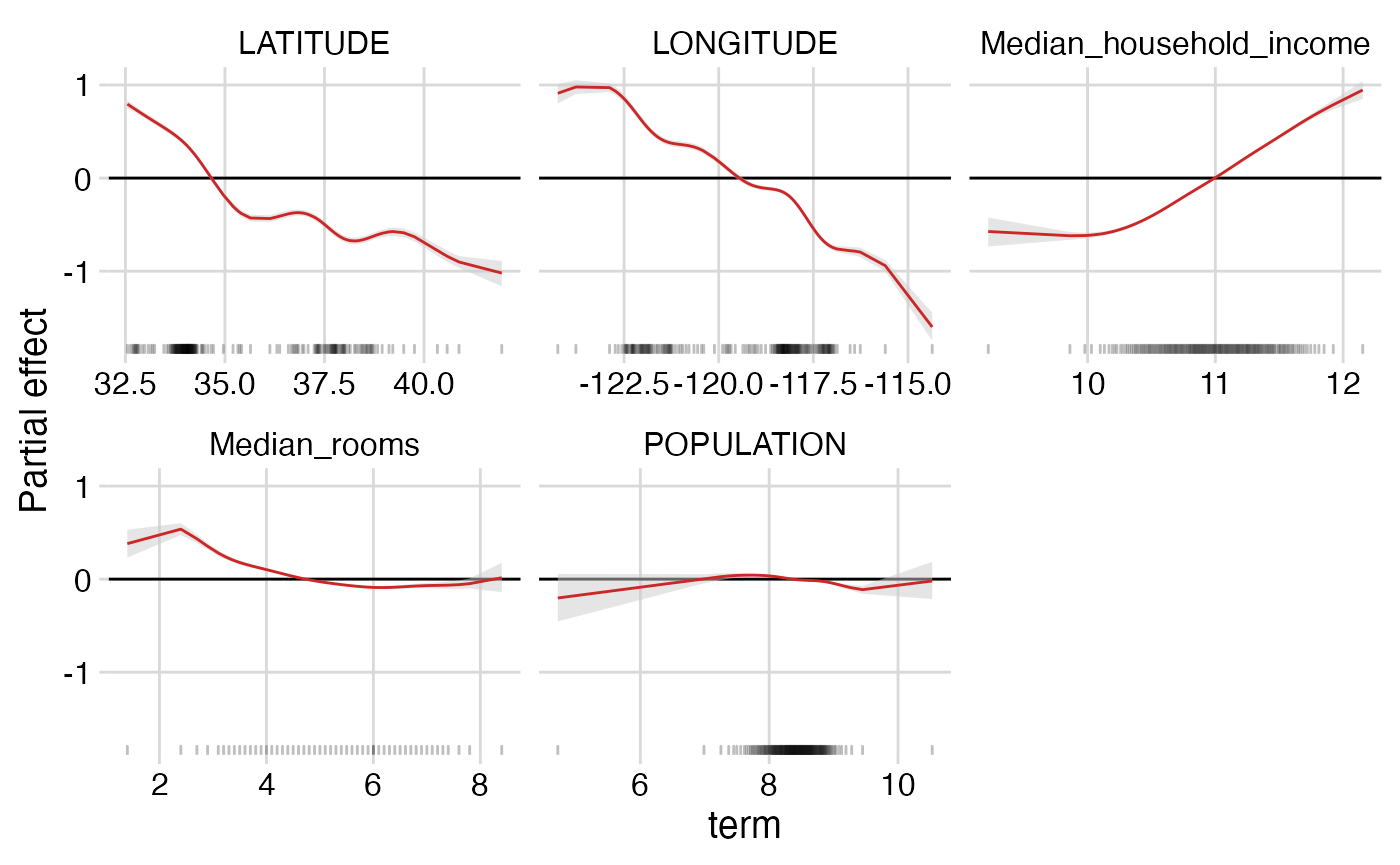
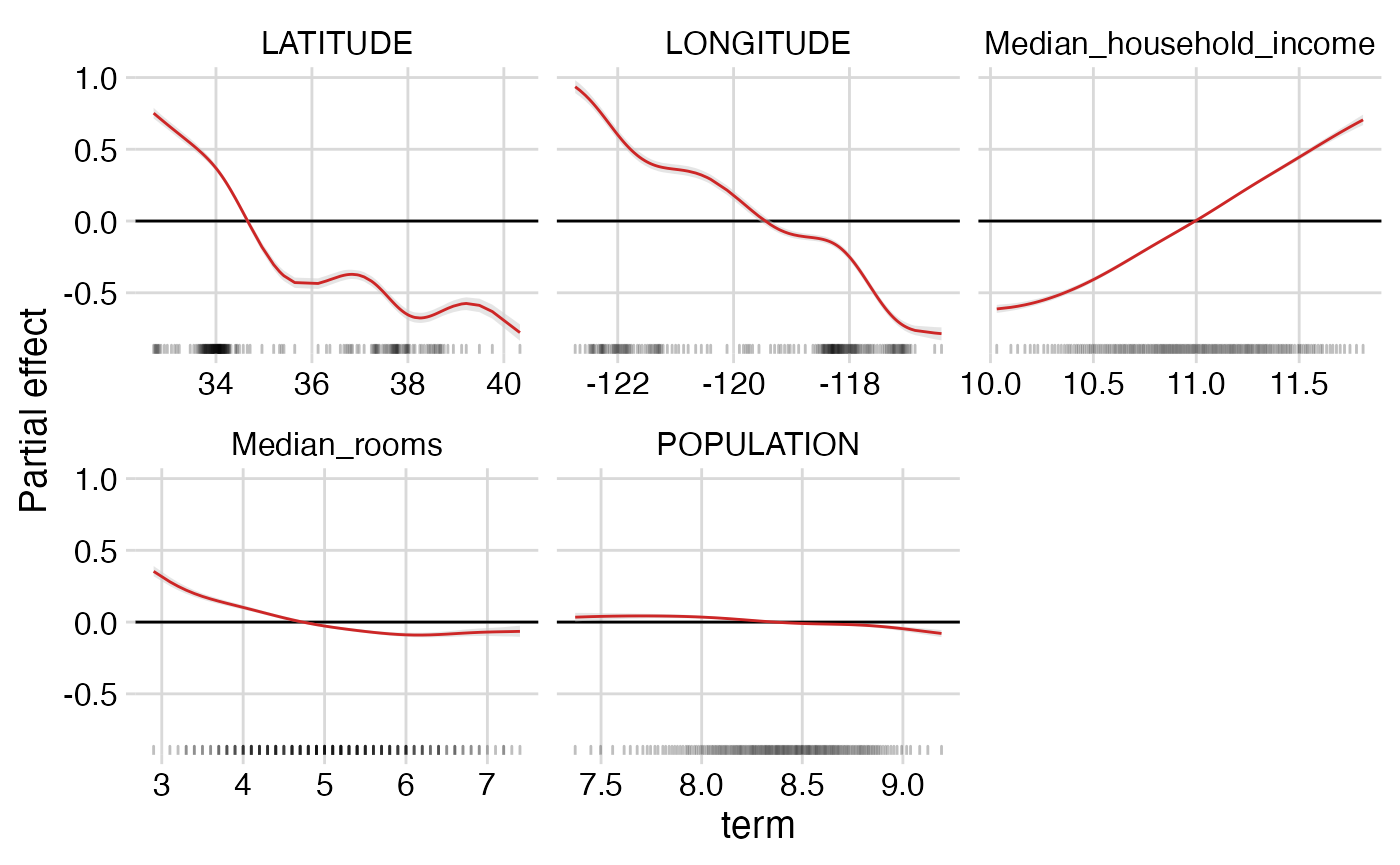
Finish fast computation of summary

diff --git a/docs/articles/california-housing.html b/docs/articles/california-housing.html
@@ -198,25 +198,68 @@ effects of each of the five covariates.</p>
 <span><span class="co">#&gt; Triangle 1 out of 5...</span></span>
 <span><span class="co">#&gt; Triangle 2 out of 5...</span></span>
 <span><span class="co">#&gt; Triangle 3 out of 5...</span></span>
-<span><span class="co">#&gt; Warning in triangle(myx, gamTerm[[triangle_terms[jay]]]): num_quantiles argument</span></span>
-<span><span class="co">#&gt; (100) less than unique values of x (52)</span></span>
 <span><span class="co">#&gt; Triangle 4 out of 5...</span></span>
 <span><span class="co">#&gt; Triangle 5 out of 5...</span></span>
 <span><span class="co">#&gt; 7481 10007481 1000</span></span>
 <span></span>
-<span><span class="fu"><a href="../reference/additive_summary_plot.html">additive_summary_plot</a></span><span class="op">(</span><span class="va">mypossum</span><span class="op">)</span></span></code></pre></div>
+<span><span class="va">mypossum</span><span class="op">$</span><span class="va">gamDf</span> <span class="op"><a href="https://magrittr.tidyverse.org/reference/pipe.html" class="external-link">%&gt;%</a></span> <span class="fu"><a href="https://pillar.r-lib.org/reference/glimpse.html" class="external-link">glimpse</a></span><span class="op">(</span><span class="op">)</span></span>
+<span><span class="co">#&gt; Rows: 1,005</span></span>
+<span><span class="co">#&gt; Columns: 13</span></span>
+<span><span class="co">#&gt; $ term      <span style="color: #949494; font-style: italic;">&lt;chr&gt;</span> "Median_household_income", "Median_household_income", "Media…</span></span>
+<span><span class="co">#&gt; $ x_j       <span style="color: #949494; font-style: italic;">&lt;dbl&gt;</span> 9.222763, 9.861839, 9.978539, 10.030437, 10.099218, 10.13193…</span></span>
+<span><span class="co">#&gt; $ fx_j_mean <span style="color: #949494; font-style: italic;">&lt;dbl&gt;</span> -0.5738048, -0.6194690, -0.6172766, -0.6124813, -0.6013317, …</span></span>
+<span><span class="co">#&gt; $ fx_j_lo   <span style="color: #949494; font-style: italic;">&lt;dbl&gt;</span> -0.7347673, -0.6628347, -0.6483007, -0.6407567, -0.6258461, …</span></span>
+<span><span class="co">#&gt; $ fx_j_hi   <span style="color: #949494; font-style: italic;">&lt;dbl&gt;</span> -0.4243263, -0.5793908, -0.5861247, -0.5838037, -0.5754610, …</span></span>
+<span><span class="co">#&gt; $ fx_j_lo95 <span style="color: #949494; font-style: italic;">&lt;dbl&gt;</span> -0.7347673, -0.6628347, -0.6483007, -0.6407567, -0.6258461, …</span></span>
+<span><span class="co">#&gt; $ fx_j_hi95 <span style="color: #949494; font-style: italic;">&lt;dbl&gt;</span> -0.4243263, -0.5793908, -0.5861247, -0.5838037, -0.5754610, …</span></span>
+<span><span class="co">#&gt; $ fx_j_lo80 <span style="color: #949494; font-style: italic;">&lt;dbl&gt;</span> -0.6785320, -0.6472784, -0.6372029, -0.6306511, -0.6176504, …</span></span>
+<span><span class="co">#&gt; $ fx_j_hi80 <span style="color: #949494; font-style: italic;">&lt;dbl&gt;</span> -0.4732336, -0.5918228, -0.5962463, -0.5932345, -0.5844023, …</span></span>
+<span><span class="co">#&gt; $ fx_j_lo50 <span style="color: #949494; font-style: italic;">&lt;dbl&gt;</span> -0.6276937, -0.6328324, -0.6281034, -0.6227858, -0.6107186, …</span></span>
+<span><span class="co">#&gt; $ fx_j_hi50 <span style="color: #949494; font-style: italic;">&lt;dbl&gt;</span> -0.5152227, -0.6046710, -0.6058601, -0.6024846, -0.5922524, …</span></span>
+<span><span class="co">#&gt; $ meta      <span style="color: #949494; font-style: italic;">&lt;lgl&gt;</span> NA, NA, NA, NA, NA, NA, NA, NA, NA, NA, NA, NA, NA, NA, NA, …</span></span>
+<span><span class="co">#&gt; $ quant     <span style="color: #949494; font-style: italic;">&lt;dbl&gt;</span> 0.000, 0.005, 0.010, 0.015, 0.020, 0.025, 0.030, 0.035, 0.04…</span></span>
+<span><span class="va">mypossum</span><span class="op">$</span><span class="va">triangleDf</span> <span class="op"><a href="https://magrittr.tidyverse.org/reference/pipe.html" class="external-link">%&gt;%</a></span> <span class="fu"><a href="https://pillar.r-lib.org/reference/glimpse.html" class="external-link">glimpse</a></span><span class="op">(</span><span class="op">)</span></span>
+<span><span class="co">#&gt; Rows: 100,500</span></span>
+<span><span class="co">#&gt; Columns: 7</span></span>
+<span><span class="co">#&gt; $ l    <span style="color: #949494; font-style: italic;">&lt;dbl&gt;</span> 0, 0, 0, 0, 0, 0, 0, 0, 0, 0, 0, 0, 0, 0, 0, 0, 0, 0, 0, 0, 0, 0,…</span></span>
+<span><span class="co">#&gt; $ u    <span style="color: #949494; font-style: italic;">&lt;dbl&gt;</span> 0.005, 0.010, 0.015, 0.020, 0.025, 0.030, 0.035, 0.040, 0.045, 0.…</span></span>
+<span><span class="co">#&gt; $ x_l  <span style="color: #949494; font-style: italic;">&lt;dbl&gt;</span> 9.222763, 9.222763, 9.222763, 9.222763, 9.222763, 9.222763, 9.222…</span></span>
+<span><span class="co">#&gt; $ x_u  <span style="color: #949494; font-style: italic;">&lt;dbl&gt;</span> 9.861839, 9.978539, 10.030437, 10.099218, 10.131937, 10.167297, 1…</span></span>
+<span><span class="co">#&gt; $ diff <span style="color: #949494; font-style: italic;">&lt;dbl&gt;</span> -0.045664281, -0.043471821, -0.038676564, -0.027526963, -0.020063…</span></span>
+<span><span class="co">#&gt; $ prob <span style="color: #949494; font-style: italic;">&lt;dbl&gt;</span> 0.250, 0.281, 0.317, 0.368, 0.400, 0.443, 0.477, 0.505, 0.530, 0.…</span></span>
+<span><span class="co">#&gt; $ term <span style="color: #949494; font-style: italic;">&lt;chr&gt;</span> "Median_household_income", "Median_household_income", "Median_hou…</span></span>
+<span></span>
+<span><span class="fu"><a href="../reference/additive_summary_plot.html">additive_summary_plot</a></span><span class="op">(</span><span class="va">mypossum</span>, windsor <span class="op">=</span> <span class="fl">0.02</span><span class="op">)</span></span>
+<span><span class="co">#&gt; Rows: 975</span></span>
+<span><span class="co">#&gt; Columns: 13</span></span>
+<span><span class="co">#&gt; $ term      <span style="color: #949494; font-style: italic;">&lt;chr&gt;</span> "Median_household_income", "Median_household_income", "Media…</span></span>
+<span><span class="co">#&gt; $ x_j       <span style="color: #949494; font-style: italic;">&lt;dbl&gt;</span> 10.03044, 10.09922, 10.13194, 10.16730, 10.19329, 10.21292, …</span></span>
+<span><span class="co">#&gt; $ fx_j_mean <span style="color: #949494; font-style: italic;">&lt;dbl&gt;</span> -0.6124813, -0.6013317, -0.5938688, -0.5841302, -0.5758271, …</span></span>
+<span><span class="co">#&gt; $ fx_j_lo   <span style="color: #949494; font-style: italic;">&lt;dbl&gt;</span> -0.6407567, -0.6258461, -0.6173449, -0.6057454, -0.5967424, …</span></span>
+<span><span class="co">#&gt; $ fx_j_hi   <span style="color: #949494; font-style: italic;">&lt;dbl&gt;</span> -0.5838037, -0.5754610, -0.5696479, -0.5606206, -0.5528594, …</span></span>
+<span><span class="co">#&gt; $ fx_j_lo95 <span style="color: #949494; font-style: italic;">&lt;dbl&gt;</span> -0.6407567, -0.6258461, -0.6173449, -0.6057454, -0.5967424, …</span></span>
+<span><span class="co">#&gt; $ fx_j_hi95 <span style="color: #949494; font-style: italic;">&lt;dbl&gt;</span> -0.5838037, -0.5754610, -0.5696479, -0.5606206, -0.5528594, …</span></span>
+<span><span class="co">#&gt; $ fx_j_lo80 <span style="color: #949494; font-style: italic;">&lt;dbl&gt;</span> -0.6306511, -0.6176504, -0.6090946, -0.5982587, -0.5894036, …</span></span>
+<span><span class="co">#&gt; $ fx_j_hi80 <span style="color: #949494; font-style: italic;">&lt;dbl&gt;</span> -0.5932345, -0.5844023, -0.5779235, -0.5691099, -0.5612833, …</span></span>
+<span><span class="co">#&gt; $ fx_j_lo50 <span style="color: #949494; font-style: italic;">&lt;dbl&gt;</span> -0.6227858, -0.6107186, -0.6023412, -0.5920776, -0.5837942, …</span></span>
+<span><span class="co">#&gt; $ fx_j_hi50 <span style="color: #949494; font-style: italic;">&lt;dbl&gt;</span> -0.6024846, -0.5922524, -0.5851661, -0.5760744, -0.5680025, …</span></span>
+<span><span class="co">#&gt; $ meta      <span style="color: #949494; font-style: italic;">&lt;lgl&gt;</span> NA, NA, NA, NA, NA, NA, NA, NA, NA, NA, NA, NA, NA, NA, NA, …</span></span>
+<span><span class="co">#&gt; $ quant     <span style="color: #949494; font-style: italic;">&lt;dbl&gt;</span> 0.015, 0.020, 0.025, 0.030, 0.035, 0.040, 0.045, 0.050, 0.05…</span></span></code></pre></div>
 <p><img src="california-housing_files/figure-html/plot-1.png" width="700"></p>
 <p>Look at triangles:</p>
 <div class="sourceCode" id="cb6"><pre class="downlit sourceCode r">
 <code class="sourceCode R"><span></span>
 <span><span class="fu"><a href="../reference/additive_summary_triangle_plot.html">additive_summary_triangle_plot</a></span><span class="op">(</span><span class="va">mypossum</span><span class="op">)</span></span></code></pre></div>
 <p><img src="california-housing_files/figure-html/unnamed-chunk-2-1.png" width="700"></p>
+<div class="sourceCode" id="cb7"><pre class="downlit sourceCode r">
+<code class="sourceCode R"><span><span class="fu"><a href="../reference/additive_summary_triangle_plot.html">additive_summary_triangle_plot</a></span><span class="op">(</span><span class="va">mypossum</span>, windsor<span class="op">=</span><span class="fl">0.02</span><span class="op">)</span></span></code></pre></div>
+<p><img src="california-housing_files/figure-html/unnamed-chunk-2-2.png" width="700"></p>
 </div>
 <div class="section level2">
 <h2 id="summary-diagnostics">Summary diagnostics<a class="anchor" aria-label="anchor" href="#summary-diagnostics"></a>
 </h2>
 <p>Summary R-sq, i.e., variance explained by summary.</p>
-<div class="sourceCode" id="cb7"><pre class="downlit sourceCode r">
+<div class="sourceCode" id="cb8"><pre class="downlit sourceCode r">
 <code class="sourceCode R"><span><span class="fu"><a href="https://rdrr.io/r/graphics/hist.html" class="external-link">hist</a></span><span class="op">(</span><span class="va">mypossum</span><span class="op">$</span><span class="va">summaryRsq</span>, main <span class="op">=</span> <span class="st">""</span>, xlab <span class="op">=</span> <span class="st">"Summary R-sq"</span><span class="op">)</span></span></code></pre></div>
 <p><img src="california-housing_files/figure-html/unnamed-chunk-3-1.png" width="700"></p>
 <!-- comment -->

diff --git a/docs/reference/additive_summary_plot.html b/docs/reference/additive_summary_plot.html
@@ -57,7 +57,7 @@
     </div>
 
     <div id="ref-usage">
-    <div class="sourceCode"><pre class="sourceCode r"><code><span><span class="fu">additive_summary_plot</span><span class="op">(</span><span class="va">additive_summary</span>, ribbonFill <span class="op">=</span> <span class="st">"grey80"</span><span class="op">)</span></span></code></pre></div>
+    <div class="sourceCode"><pre class="sourceCode r"><code><span><span class="fu">additive_summary_plot</span><span class="op">(</span><span class="va">additive_summary</span>, ribbonFill <span class="op">=</span> <span class="st">"grey80"</span>, windsor <span class="op">=</span> <span class="cn">NA</span><span class="op">)</span></span></code></pre></div>
     </div>
 
     <div id="arguments">
@@ -68,6 +68,10 @@
 
 <dt>ribbonFill</dt>
 <dd><p>An optional argument for the color of the credible interval</p></dd>
+
+
+<dt>windsor</dt>
+<dd><p>"Windsorized" summary, which removes the top and bottom windsor/2 quantiles of each covariate. Only available if "quants" present in the posterior summary</p></dd>
 
 </dl></div>
     <div id="details">

diff --git a/docs/reference/triangle.html b/docs/reference/triangle.html
@@ -57,7 +57,7 @@
     </div>
 
     <div id="ref-usage">
-    <div class="sourceCode"><pre class="sourceCode r"><code><span><span class="fu">triangle</span><span class="op">(</span><span class="va">x</span>, <span class="va">fsamples</span>, num_quantiles <span class="op">=</span> <span class="fl">100</span><span class="op">)</span></span></code></pre></div>
+    <div class="sourceCode"><pre class="sourceCode r"><code><span><span class="fu">triangle</span><span class="op">(</span><span class="va">x</span>, <span class="va">fsamples</span>, num_quantiles <span class="op">=</span> <span class="fl">200</span><span class="op">)</span></span></code></pre></div>
     </div>
 
     <div id="details">

diff --git a/docs/reference/additive_summary_triangle_plot.html b/docs/reference/additive_summary_triangle_plot.html
@@ -57,7 +57,7 @@
     </div>
 
     <div id="ref-usage">
-    <div class="sourceCode"><pre class="sourceCode r"><code><span><span class="fu">additive_summary_triangle_plot</span><span class="op">(</span><span class="va">possum1</span><span class="op">)</span></span></code></pre></div>
+    <div class="sourceCode"><pre class="sourceCode r"><code><span><span class="fu">additive_summary_triangle_plot</span><span class="op">(</span><span class="va">possum1</span>, windsor <span class="op">=</span> <span class="cn">NA</span><span class="op">)</span></span></code></pre></div>
     </div>
 
     <div id="details">
